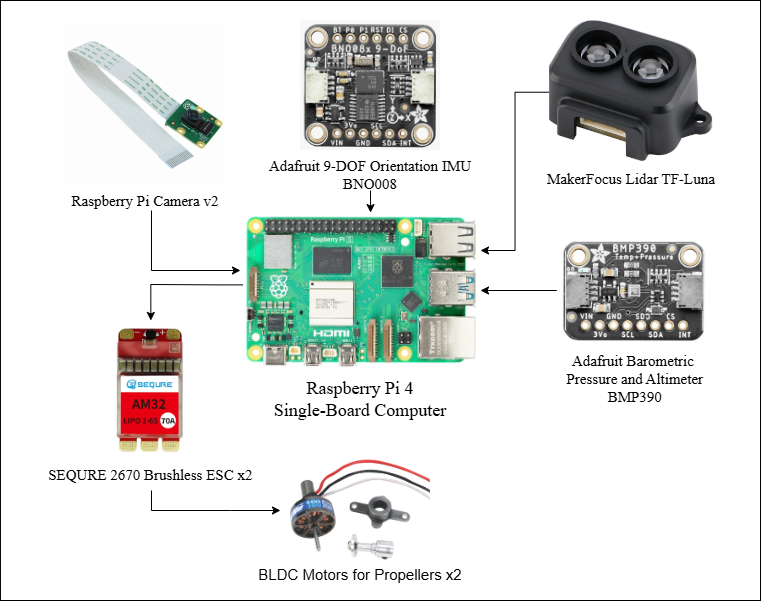
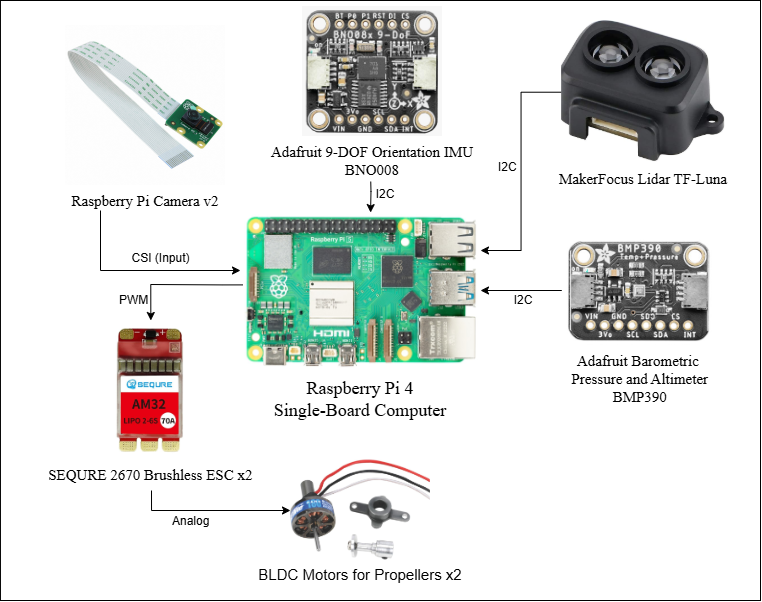
Updated Block diagrams with I/O

diff --git a/docs/index.md b/docs/index.md
@@ -72,13 +72,10 @@ These tests will be conducted in both controlled indoor environments and field t
 
 In our final demonstration, real-time integration of sensor data will be paramount. Each sensor will play a specific role in enabling autonomous operation:
 
-- **IMU**: Provides orientation control with 6-DoF motion tracking at 200Hz
-- **Barometer**: Maintains precise altitude control through atmospheric pressure monitoring
-- **GPS**: Enables robust outdoor localization with meter-level accuracy
-- **Raspberry Pi Camera**: Supports visual goal detection and obstacle recognition at 30fps
-- **Sonar**: Offers proximity detection for immediate collision avoidance
-- **ToF Sensor (LiDAR)**: Creates detailed 3D environmental maps for navigation planning
-
+- **IMU**: Provides orientation control with 6-DoF motion tracking at 200Hz.
+- **Barometer**: Maintains precise altitude control through atmospheric pressure monitoring.
+- **Raspberry Pi Camera**: Supports visual goal detection and obstacle recognition at 30fps.
+- **ToF Sensor (LiDAR)**: Creates detailed 3D environmental maps for navigation planning.
 
 ![Sensor Block Diagram](./figures/blimp_block_diagram.png)  
 *Figure 2: BLIMP Sensor Connection Block Diagram*
@@ -88,7 +85,7 @@ In our final demonstration, real-time integration of sensor data will be paramou
 
 Our ROS-based GUI can be enhanced to include real-time streaming of sensor topics, providing a comprehensive visualization tool for debugging and monitoring system performance. The interface should includes:
 
-- **Live Sensor Data Feeds**: Displaying IMU, barometer, GPS, sonar, and camera outputs.
+- **Live Sensor Data Feeds**: Displaying IMU, barometer, and camera outputs.
 - **Real-Time 3D Mapping**: Visualization of detected obstacles and planned trajectories.
 - **System Status Indicators**: Battery levels, motor commands, and control mode (manual/autonomous).
 - **Logging & Playback**: Time-stamped data recording for post-mission analysis.
@@ -123,27 +120,27 @@ We are developing a comprehensive GUI based on ROS that serves multiple function
 
 1. **Real-time Data Visualization**: 
 
-   - Sensor data dashboards displaying IMU, barometer, GPS, camera, sonar, and LiDAR outputs
-   - Interactive 3D map showing current position, trajectory, and detected obstacles
-   - System status indicators including battery levels, motor outputs, and connection quality
+   - Sensor data dashboards displaying IMU, barometer, GPS, camera, sonar, and LiDAR outputs.
+   - Interactive 3D map showing current position, trajectory, and detected obstacles.
+   - System status indicators including battery levels, motor outputs, and connection quality.
  
 <br>
 
 2. **Control Interface**:
 
-   - Mode selection panel (manual/autonomous)
-   - Manual control input visualization
-   - Goal setting and waypoint management tools
-   - Parameter adjustment sliders for tuning control algorithms
+   - Mode selection panel (manual/autonomous).
+   - Manual control input visualization.
+   - Goal setting and waypoint management tools.
+   - Parameter adjustment sliders for tuning control algorithms.
 
 <br>
 
 3. **Data Logging and Analysis**:
 
-   - Comprehensive time-stamped data recording of all sensor inputs
-   - Performance metrics tracking including stability measures and navigation accuracy
-   - Export functionality for post-mission analysis
-   - Replay capabilities for reviewing flight data
+   - Comprehensive time-stamped data recording of all sensor inputs.
+   - Performance metrics tracking including stability measures and navigation accuracy.
+   - Export functionality for post-mission analysis.
+   - Replay capabilities for reviewing flight data.
 
 This integrated interface will not only enable immediate interaction during operation but also support detailed post-mission analysis and system refinement.
 
@@ -227,12 +224,12 @@ Throughout the demonstration, we will explain the sensor fusion algorithms, cont
 
 **Equipment Needs:**
 
-- Laptop with ROS2 and our custom GUI for system monitoring and control
-- Remote SSH capabilities for system access and troubleshooting
-- Joystick for manual control demonstrations and emergency override
-- Fully assembled BLIMP with all sensors integrated and calibrated
-- Visual markers and obstacles for navigation challenges
-- Backup batteries and emergency repair kit
+- Laptop with ROS2 and our custom GUI for system monitoring and control.
+- Remote SSH capabilities for system access and troubleshooting.
+- Joystick for manual control demonstrations and emergency override.
+- Fully assembled BLIMP with all sensors integrated and calibrated.
+- Visual markers and obstacles for navigation challenges.
+- Backup batteries and emergency repair kit.
 
 #### Conditions change in any environment. How will your robot handle variability in its environment?
 
@@ -240,25 +237,25 @@ Our system is designed with adaptability as a core principle to handle environme
 
 **Atmospheric Changes:**
 
-- Barometric pressure fluctuations will be compensated through dynamic altitude calculation adjustments
-- Temperature variations affecting sensor readings will be automatically calibrated through periodic reference checks
+- Barometric pressure fluctuations will be compensated through dynamic altitude calculation adjustments.
+- Temperature variations affecting sensor readings will be automatically calibrated through periodic reference checks.
 
 **Lighting Conditions:**
 
-- The camera vision system employs adaptive exposure and contrast enhancement algorithms
-- Multiple visual recognition approaches (feature-based and neural network) provide redundancy across lighting conditions
+- The camera vision system employs adaptive exposure and contrast enhancement algorithms.
+- Multiple visual recognition approaches (feature-based and neural network) provide redundancy across lighting conditions.
 
 **Dynamic Obstacles:**
 
-- Real-time LiDAR scanning continuously updates the environmental map
-- Obstacle avoidance algorithms recalculate trajectories at 5Hz to respond to moving objects
-- Sonar provides redundant close-range detection for last-moment collision avoidance
+- Real-time LiDAR scanning continuously updates the environmental map.
+- Obstacle avoidance algorithms recalculate trajectories at 5Hz to respond to moving objects.
+- Sonar provides redundant close-range detection for last-moment collision avoidance.
 
 **Wind and Air Currents:**
 
-- IMU feedback detects unexpected orientation changes caused by air currents
-- PID controllers dynamically adjust motor outputs to compensate for external forces
-- Wind estimation algorithms adapt control parameters based on observed disturbance patterns
+- IMU feedback detects unexpected orientation changes caused by air currents.
+- PID controllers dynamically adjust motor outputs to compensate for external forces.
+- Wind estimation algorithms adapt control parameters based on observed disturbance patterns.
 
 This multi-layered approach ensures the BLIMP remains stable and responsive even as environmental conditions change during operation.
 
@@ -268,22 +265,22 @@ Our testing and evaluation strategy follows a rigorous multi-stage approach:
 
 **1. Unit Testing:**
 
-- **Sensor Validation**: Each sensor undergoes individual calibration and accuracy verification against known reference values
-- **Control Module Testing**: Isolated testing of individual control algorithms with simulated inputs
-- **Component Integration**: Verification of communication between adjacent system components
+- **Sensor Validation**: Each sensor undergoes individual calibration and accuracy verification against known reference values.
+- **Control Module Testing**: Isolated testing of individual control algorithms with simulated inputs.
+- **Component Integration**: Verification of communication between adjacent system components.
 
 **2. System Integration Testing:**
 
-- **Sensor Fusion Accuracy**: Comparison of fused state estimates against ground truth measurements
-- **Control Loop Stability**: Evaluation of system response to controlled disturbances
-- **Resource Utilization**: Monitoring of CPU, memory, and network usage during operation
+- **Sensor Fusion Accuracy**: Comparison of fused state estimates against ground truth measurements.
+- **Control Loop Stability**: Evaluation of system response to controlled disturbances.
+- **Resource Utilization**: Monitoring of CPU, memory, and network usage during operation.
 
 **3. Functional Testing:**
 
-- **Hovering Stability**: Quantitative measurement of position and attitude variance during stationary flight
-- **Navigation Accuracy**: Evaluation of path-following precision against predetermined routes
-- **Obstacle Avoidance**: Success rate in detecting and navigating around obstacles of varying sizes and positions
-- **Goal Recognition**: Accuracy and response time in identifying and moving toward visual targets
+- **Hovering Stability**: Quantitative measurement of position and attitude variance during stationary flight.
+- **Navigation Accuracy**: Evaluation of path-following precision against predetermined routes.
+- **Obstacle Avoidance**: Success rate in detecting and navigating around obstacles of varying sizes and positions.
+- **Goal Recognition**: Accuracy and response time in identifying and moving toward visual targets.
 
 **4. Performance Metrics:**
 
@@ -312,11 +309,11 @@ The AeroFusion platform will serve as a replicable template for future autonomou
 **Expanded Learning Horizons:**
 
 This project will naturally drive us to explore advanced material beyond the standard curriculum, including:
-- Adaptive control strategies for under-actuated systems
-- Machine learning approaches to environmental perception
-- Energy-efficient computing for embedded systems
-- Human-robot interaction design principles
-- Robust engineering practices for field-deployable systems
+- Adaptive control strategies for under-actuated systems.
+- Machine learning approaches to environmental perception.
+- Energy-efficient computing for embedded systems.
+- Human-robot interaction design principles.
+- Robust engineering practices for field-deployable systems.
 
 **Long-Term Impact:**
 Beyond immediate educational benefits, this work lays the foundation for further research into lighter-than-air autonomous vehicles for applications including environmental monitoring, infrastructure inspection, and emergency response. The sensor fusion techniques we develop may inform approaches to similar challenges in other robotic domains, creating knowledge transfer opportunities across the field.
